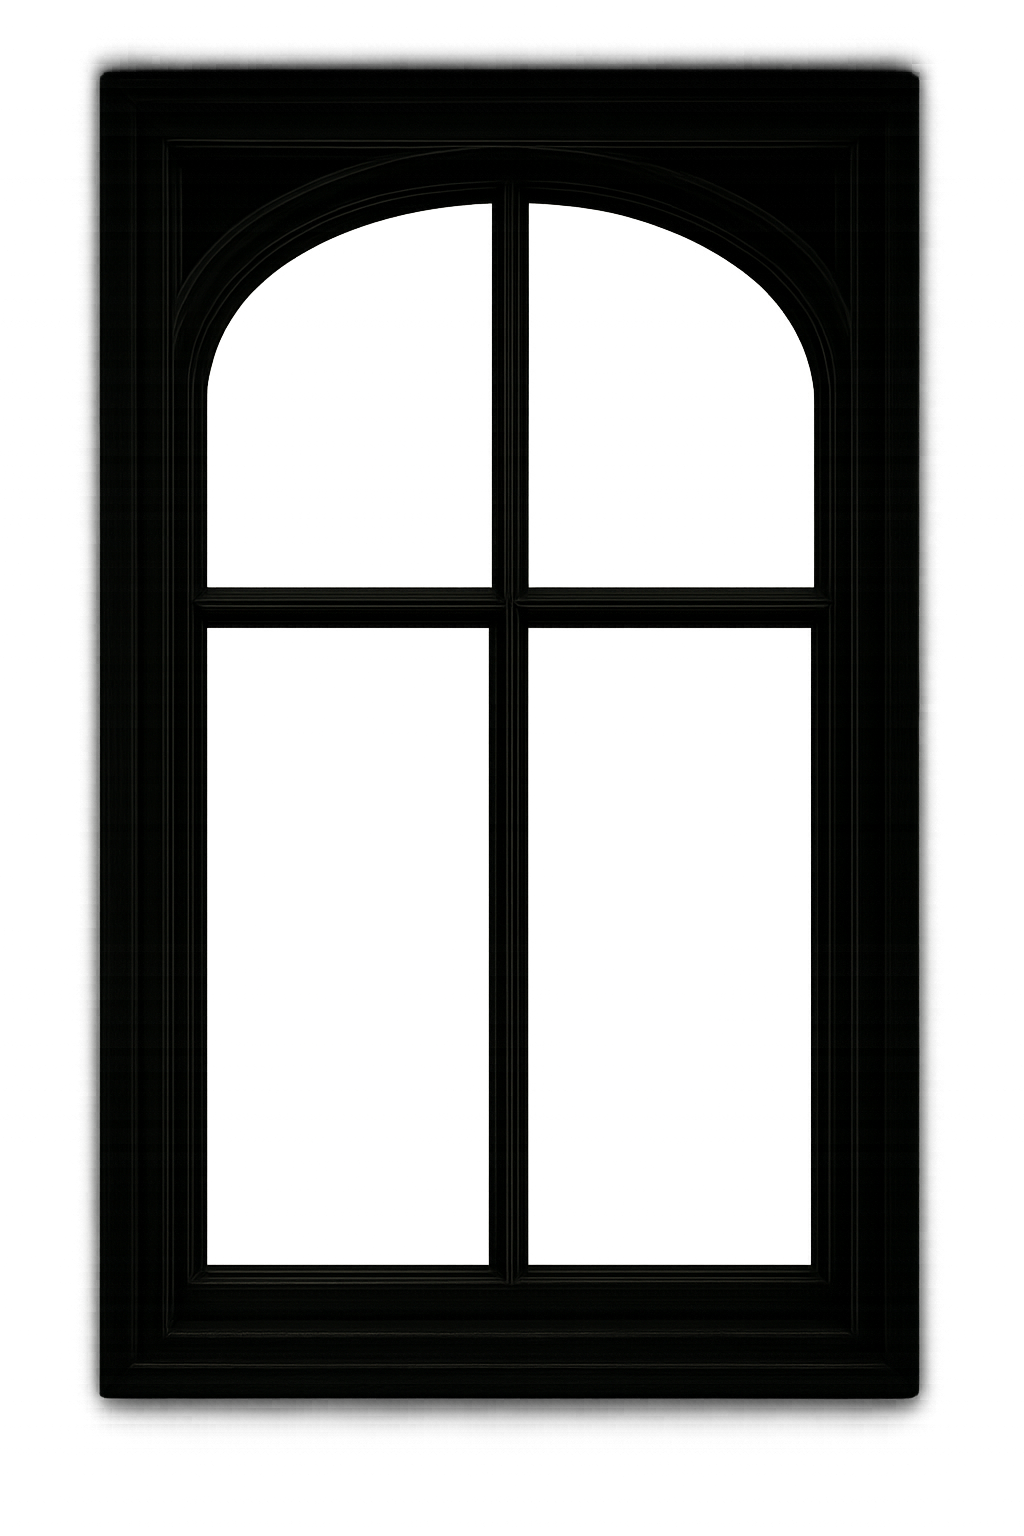
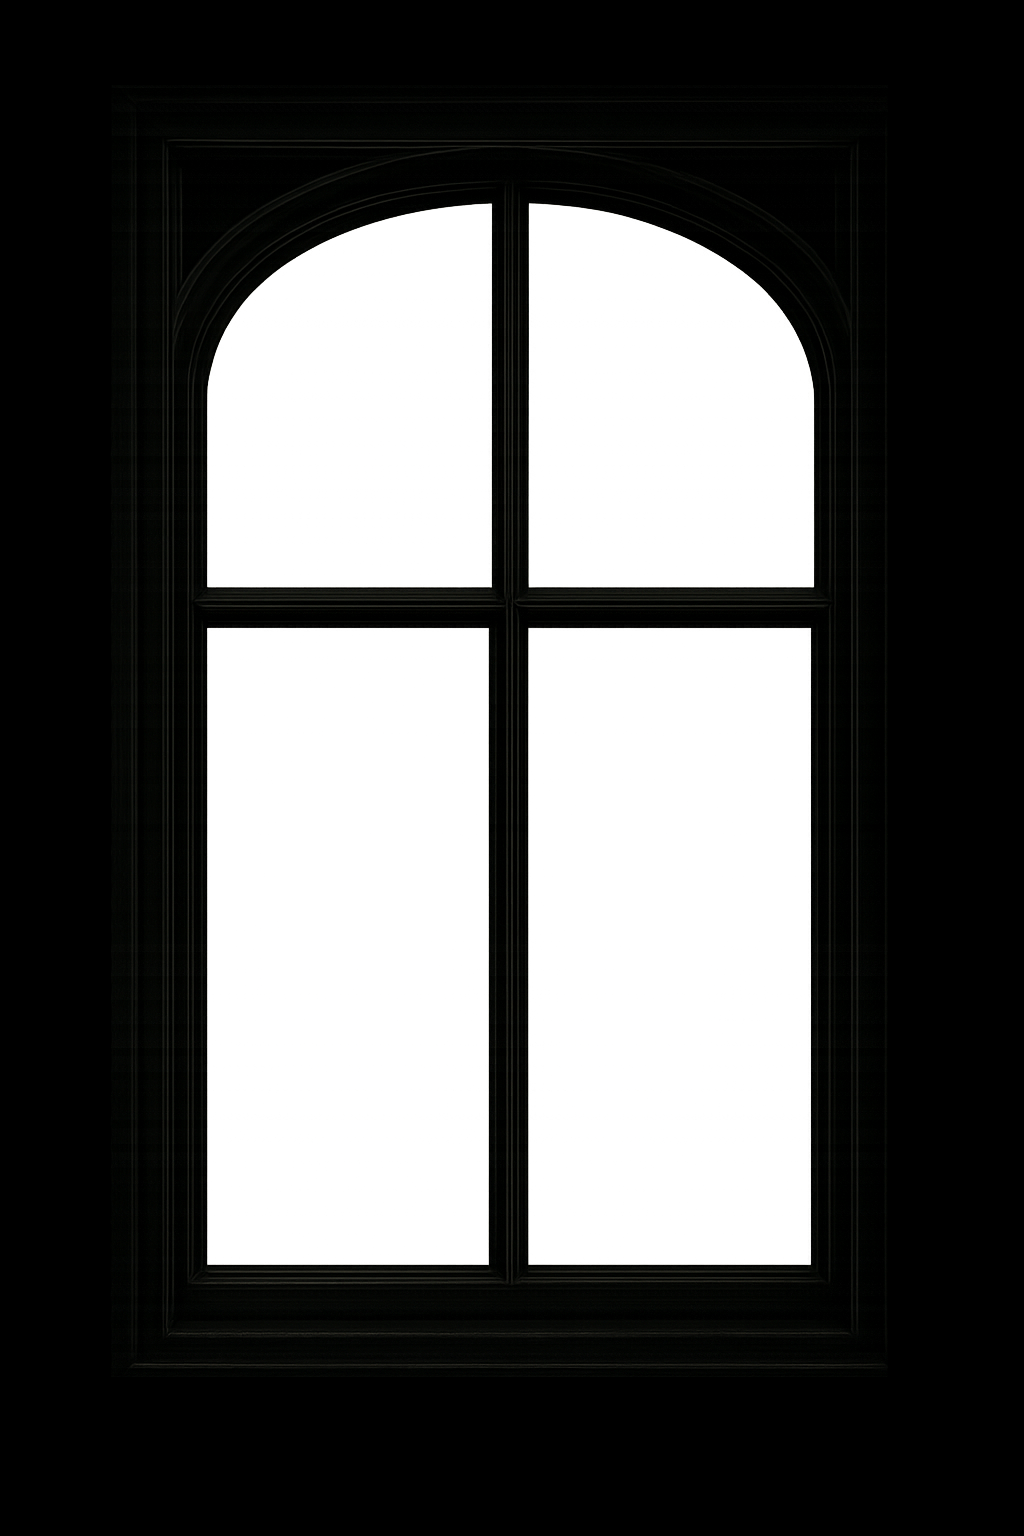
uptd

diff --git a/index.html b/index.html
@@ -8,95 +8,84 @@
 </head>
 <body>
 
-  <svg xmlns="http://www.w3.org/2000/svg"
-       xmlns:xlink="http://www.w3.org/1999/xlink"
-       width="100%" height="100%"
-       viewBox="0 0 1024 1536"
-       preserveAspectRatio="xMidYMid slice">
-
+<svg xmlns="http://www.w3.org/2000/svg"
+     xmlns:xlink="http://www.w3.org/1999/xlink"
+     width="100%" height="100%"
+     viewBox="0 0 1024 1536"
+     preserveAspectRatio="xMidYMid slice">
 
   <defs>
-    <!-- Маска: берём frame.png, 
-         в ней альфа-канал задаёт область показа -->
+    <!-- 1) Маска окна: белая область в frame-mask.png определяет "прозрачное" окно -->
     <mask id="windowMask"
           maskUnits="userSpaceOnUse"
           maskContentUnits="userSpaceOnUse">
       <image
-        href="assets/frame.png"
+        href="assets/frame-mask.png"
         x="0" y="0"
         width="1024" height="1536"
-        preserveAspectRatio="xMidYMid slice"
-      />
+        preserveAspectRatio="xMidYMid slice"/>
+    </mask>
+
+    <!-- 2) Ваша маска экрана ноутбука -->
+    <mask id="screenMask" maskUnits="userSpaceOnUse">
+      <image
+        href="assets/laptop_black_bg.png"
+        x="0" y="0"
+        width="1024" height="1024"/>
     </mask>
   </defs>
 
-  <!-- 1) Сплошная чёрная стена -->
+  <!-- А) Стены — сплошная чёрная подложка -->
   <rect x="0" y="0" width="100%" height="100%" fill="#000"/>
 
-  <!-- 2) Группа, к которой применена маска окна -->
+  <!-- B) Сквозное небо + луна, обрезанные по форме окна -->
   <g mask="url(#windowMask)">
-    <!-- 2.1) Небо -->
     <image
       id="sky"
-      href="assets/sky-day.png"
+      href="assets/sky-night.png"
       x="0" y="0"
       width="1024" height="1536"
-      preserveAspectRatio="xMidYMid slice"
-    />
-    <!-- 2.2) Луна (скрыта, потом анимируем) -->
+      preserveAspectRatio="xMidYMid slice"/>
     <image
       id="moon"
       href="assets/moon-default.png"
       x="0" y="0"
       width="1024" height="1536"
-      visibility="hidden"
-    />
+      visibility="hidden"/>  <!-- потом сделаем visible + анимацию -->
   </g>
 
-  <!-- 3) Сама рамка поверх всего, чтобы видно было только границы -->
+  <!-- C) Сама рамка поверх, чтобы видно было только границы -->
   <image
     href="assets/frame.png"
     x="0" y="0"
     width="1024" height="1536"
-    preserveAspectRatio="xMidYMid slice"
-  />
+    preserveAspectRatio="xMidYMid slice"/>
 
-    <defs>
-      <mask id="screenMask" maskUnits="userSpaceOnUse">
-        <image
-          href="assets/laptop_black_bg.png"
-          x="0" y="0"
-          width="1024" height="1024"
-        />
-      </mask>
-    </defs>
+  <!-- D) Ваш существующий SVG-ноутбук с каруселью -->
+  <g id="carouselGroup">
+    <a id="carouselLink" xlink:href="" target="_blank">
+      <image
+        id="carouselImage"
+        x="0" y="256"
+        width="1024" height="1024"
+        mask="url(#screenMask)"
+        style="cursor: pointer;"/>
+    </a>
+  </g>
 
-    <g id="carouselGroup">
-      <a id="carouselLink" xlink:href="" target="_blank">
-        <image
-          id="carouselImage"
-          x="0" y="0"
-          width="1024" height="1024"
-          mask="url(#screenMask)"
-          style="cursor: pointer;"
-        />
-      </a>
-    </g>
+  <image
+    href="assets/laptop_transparent_screen.png"
+    x="0" y="256"
+    width="1024" height="1024"/>
 
-    <image
-      href="assets/laptop_transparent_screen.png"
-      x="0" y="0"
-      width="1024" height="1024"
-    />
+  <g id="arrowLeft" transform="translate(50,768) rotate(180)" style="cursor: pointer;">
+    <polygon points="0,-40 30,0 0,40" fill="#b22222" opacity="0.7"/>
+  </g>
+  <g id="arrowRight" transform="translate(974,768)" style="cursor: pointer;">
+    <polygon points="0,-40 30,0 0,40" fill="#b22222" opacity="0.7"/>
+  </g>
 
-    <g id="arrowLeft" class="arrow" transform="translate(50,512) rotate(180)" style="cursor: pointer;">
-      <polygon points="0,-40 30,0 0,40" fill="#b22222" opacity="0.7"/>
-    </g>
-    <g id="arrowRight" class="arrow" transform="translate(974,512)" style="cursor: pointer;">
-      <polygon points="0,-40 30,0 0,40" fill="#b22222" opacity="0.7"/>
-    </g>
-
-  </svg>
+</svg>
 
   <script defer src="scripts/portfolioApp.js"></script>
 </body>
